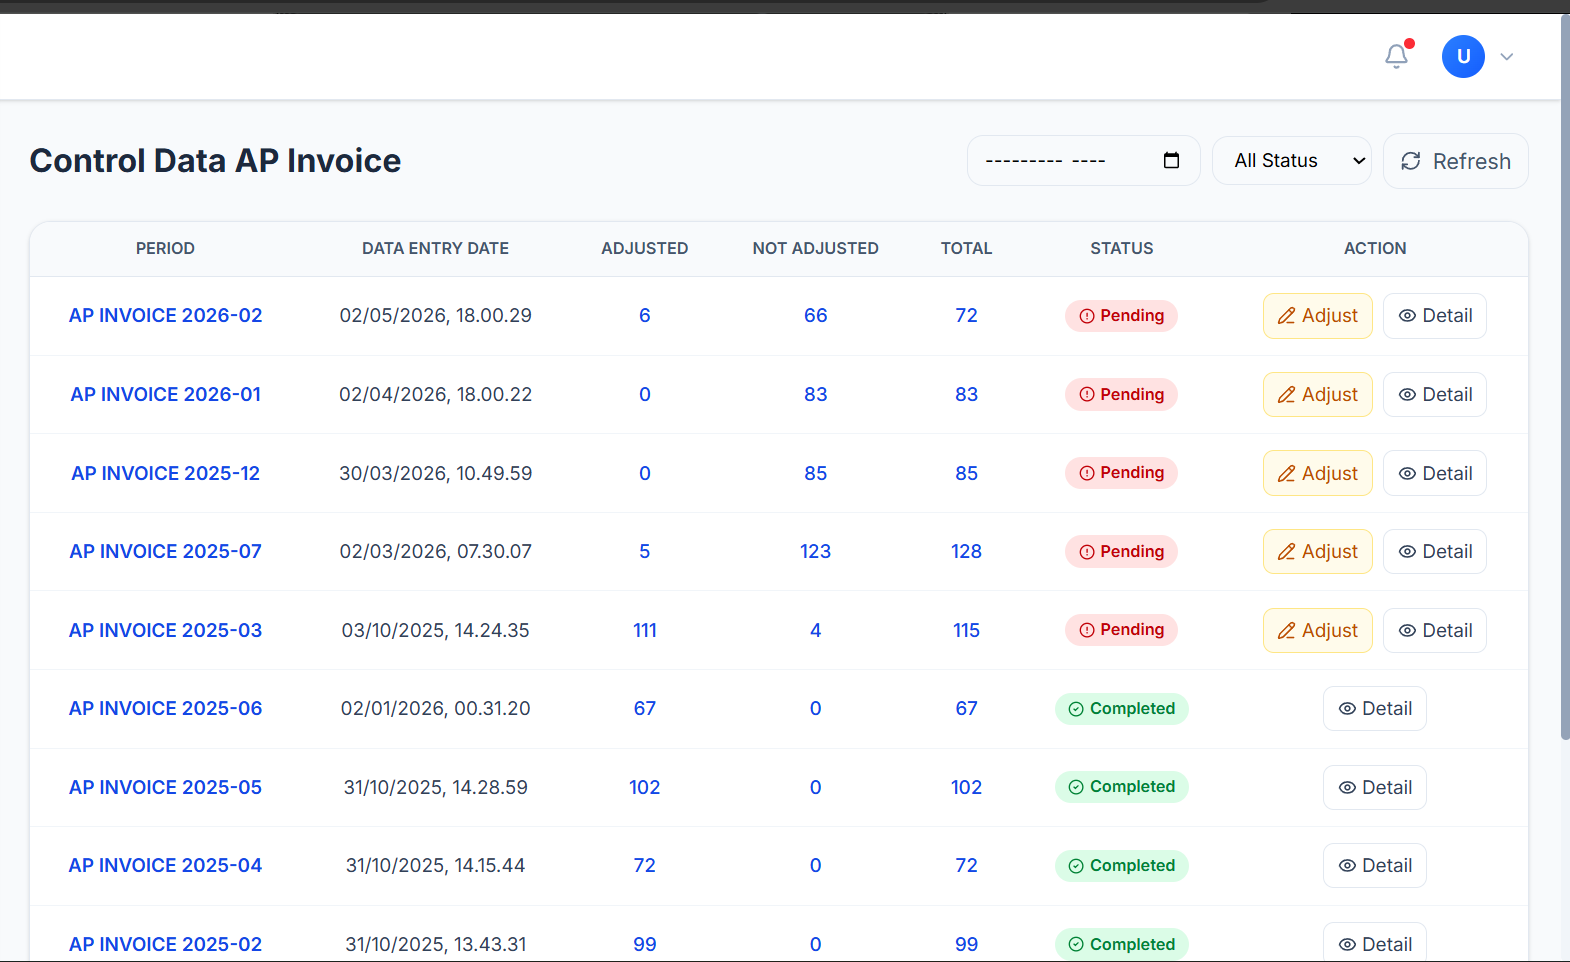
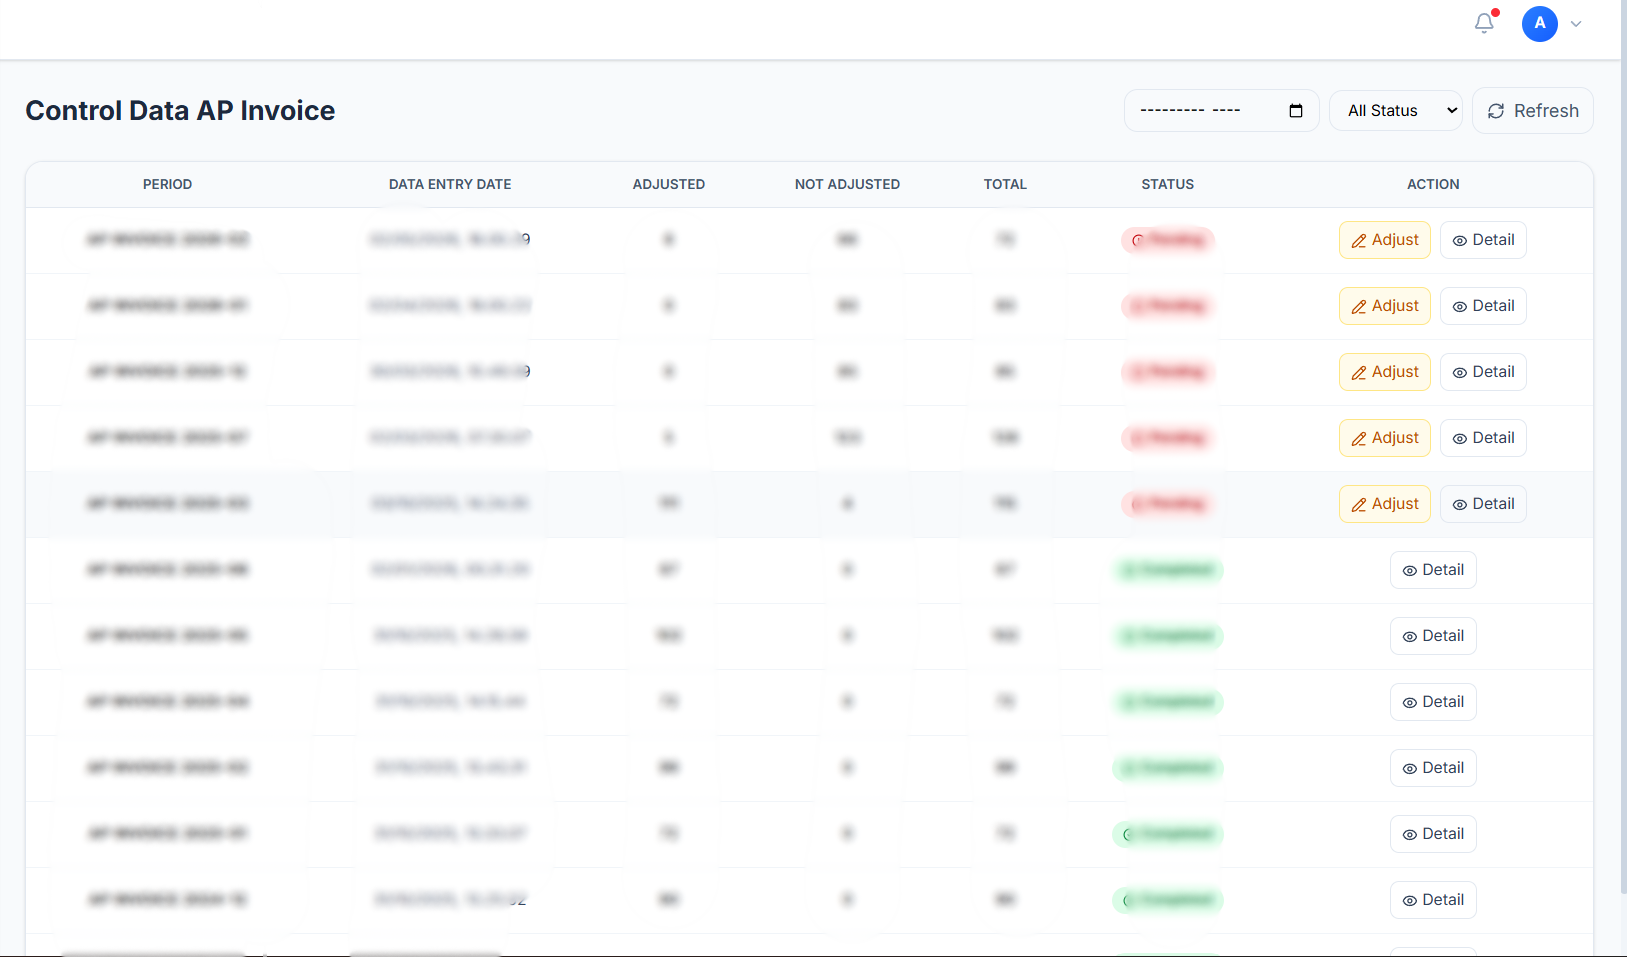
update

diff --git a/src/pages/Index.tsx b/src/pages/Index.tsx
@@ -1,12 +1,77 @@
 import { useEffect, useState } from "react";
-import { X, ChevronLeft, ChevronRight } from "lucide-react";
+import { X, ChevronLeft, ChevronRight, ExternalLink } from "lucide-react";
+
+interface Project {
+  title: string;
+  description: string;
+  tags: string[];
+  technologies: string[];
+  company: string;
+  bgColor: string;
+  image: string;
+  images: string[];
+  role?: string;
+  period?: string;
+  documentation?: string;
+}
 
 const Index = () => {
-  const [selectedProject, setSelectedProject] = useState<null | (typeof projects)[number]>(null);
+  const [selectedProject, setSelectedProject] = useState<null | Project>(null);
   const [currentImageIndex, setCurrentImageIndex] = useState(0);
   const [projectSlideIndex, setProjectSlideIndex] = useState(0);
 
-  const projects = [
+  const projects: Project[] = [
+    {
+      title: "Enterprise Frontend Migration",
+      description:
+        "Migrated a enterprise frontend for client PT Kansai Paint Indonesia 4 main modules, 20 business modules, and 49 workflow submodules, including Request Management (Purchase Request, Reimbursement, Cash Advance, Settlement), Tracking Document (Purchase Request, AR Invoice, Purchase Order, Reimbursement, Outgoing Payments, PR-to-PO), and Approval Report (Purchase Order, AR Invoice, Outgoing Payment Reimbursement, Outgoing Payment Cash Advance, Outgoing Payment AP Invoice), from a HTML, CSS, Vanila Javascript multi-page architecture to a React js Single Page Application (SPA), successfully completing development, testing, and deployment within 5 weeks.",
+      tags: ["React.js", "SPA", "JavaScript"],
+      technologies: [
+        "React.js",
+        "Single Page Application (SPA)",
+        "JavaScript",
+        "HTML5",
+        "CSS3",
+      ],
+      company: "PT. IDS Teknologi Indonesia",
+      bgColor:
+        "bg-gradient-to-br from-indigo-200 to-violet-100 border-2 border-indigo-200",
+      image: "/assets/ids_documentation/dashboard.png",
+      images: [
+        "/assets/ids_documentation/dashboard.png",
+        "/assets/ids_documentation/login.png",
+        "/assets/ids_documentation/pending_task.png",
+        "/assets/ids_documentation/pr_1.png",
+        "/assets/ids_documentation/pr_2.png",
+        "/assets/ids_documentation/pr_3.png",
+        "/assets/ids_documentation/pr_4.png",
+        "/assets/ids_documentation/pr_5.png",
+        "/assets/ids_documentation/pr_6.png",
+        "/assets/ids_documentation/reim_1.png",
+        "/assets/ids_documentation/reim_2.png",
+        "/assets/ids_documentation/reim_3.png",
+        "/assets/ids_documentation/reim_4.png",
+        "/assets/ids_documentation/reim_5.png",
+        "/assets/ids_documentation/ca_1.png",
+        "/assets/ids_documentation/ca_2.png",
+        "/assets/ids_documentation/settlement_1.png",
+        "/assets/ids_documentation/settlement_2.png",
+        "/assets/ids_documentation/po_1.png",
+        "/assets/ids_documentation/po_2.png",
+        "/assets/ids_documentation/po_3.png",
+        "/assets/ids_documentation/po_4.png",
+        "/assets/ids_documentation/ar_1.png",
+        "/assets/ids_documentation/opca_1.png",
+        "/assets/ids_documentation/opca_2.png",
+        "/assets/ids_documentation/opreim_1.png",
+        "/assets/ids_documentation/tr_1.png",
+        "/assets/ids_documentation/tr_2.png",
+        "/assets/ids_documentation/mst_1.png",
+        "/assets/ids_documentation/mst_2.png",
+        "/assets/ids_documentation/mst_3.png",
+        "/assets/ids_documentation/mst_4.png",
+      ],
+    },
     {
       title: "Data Validation System",
       description: "Designed and developed a web-based Data Validation System with two main module: Module validating SLA records that exceed standards by routing them to responsible teams for remarks and Module enabling high-volume raw data uploads into separate staging databases", 
@@ -220,11 +285,30 @@ const Index = () => {
                     <h3 className="text-lg font-semibold text-neutral-900 group-hover:text-blue-600 transition-colors">
                       {project.title} ({project.company})
                     </h3>
+                    {(project.role || project.period) && (
+                      <p className="mt-1 text-xs font-mono text-neutral-500">
+                        {project.role} {project.role && project.period ? "•" : ""} {project.period}
+                      </p>
+                    )}
                     <p className="mt-1.5 text-sm text-neutral-500 leading-relaxed max-w-md">
                       {project.description}
                     </p>
+                    {project.documentation && (
+                      <div className="mt-2.5">
+                        <a
+                          href={project.documentation}
+                          target="_blank"
+                          rel="noreferrer"
+                          onClick={(e) => e.stopPropagation()}
+                          className="inline-flex items-center gap-1.5 text-xs font-semibold text-blue-600 hover:text-blue-700 transition-colors hover:underline"
+                        >
+                          <span>Documentation</span>
+                          <ExternalLink className="w-3 h-3" />
+                        </a>
+                      </div>
+                    )}
                   </div>
-                  <div className="flex items-center gap-2 flex-shrink-0 mt-1">
+                  <div className="flex flex-wrap items-center gap-2 flex-shrink-0 mt-1 max-w-[140px] justify-end">
                     {project.tags.map((tag, i) => (
                       <span
                         key={i}
@@ -297,14 +381,33 @@ const Index = () => {
                 <h3 className="text-xl font-semibold text-neutral-900">
                   {selectedProject.company} ({selectedProject.title})
                 </h3>
-            
+                {(selectedProject.role || selectedProject.period) && (
+                  <p className="text-xs text-neutral-500 font-mono mt-1">
+                    {selectedProject.role}
+                    {selectedProject.role && selectedProject.period ? " • " : ""}
+                    {selectedProject.period}
+                  </p>
+                )}
               </div>
-              <button
-                onClick={closeModal}
-                className="w-9 h-9 rounded-full bg-neutral-100 hover:bg-neutral-200 flex items-center justify-center transition-colors"
-              >
-                <X className="w-4 h-4 text-neutral-600" />
-              </button>
+              <div className="flex items-center gap-3">
+                {selectedProject.documentation && (
+                  <a
+                    href={selectedProject.documentation}
+                    target="_blank"
+                    rel="noreferrer"
+                    className="inline-flex items-center gap-1.5 px-3 py-1.5 text-xs font-semibold text-blue-600 bg-blue-50 hover:bg-blue-100 rounded-lg transition-colors border border-blue-200"
+                  >
+                    <ExternalLink className="w-3.5 h-3.5" />
+                    <span>Documentation</span>
+                  </a>
+                )}
+                <button
+                  onClick={closeModal}
+                  className="w-9 h-9 rounded-full bg-neutral-100 hover:bg-neutral-200 flex items-center justify-center transition-colors"
+                >
+                  <X className="w-4 h-4 text-neutral-600" />
+                </button>
+              </div>
             </div>
 
             {/* Image Gallery */}
@@ -342,15 +445,28 @@ const Index = () => {
               <p className="text-sm text-neutral-500 leading-relaxed mb-4">
                 {selectedProject.description}
               </p>
-              <div className="flex flex-wrap gap-2">
-                {selectedProject.technologies.map((tech, i) => (
-                  <span
-                    key={i}
-                    className="text-[10px] font-mono font-medium text-neutral-500 border border-neutral-200 rounded-full px-2.5 py-0.5"
+              <div className="flex flex-wrap items-center justify-between gap-3">
+                <div className="flex flex-wrap gap-2">
+                  {selectedProject.technologies.map((tech, i) => (
+                    <span
+                      key={i}
+                      className="text-[10px] font-mono font-medium text-neutral-500 border border-neutral-200 rounded-full px-2.5 py-0.5"
+                    >
+                      {tech}
+                    </span>
+                  ))}
+                </div>
+                {selectedProject.documentation && (
+                  <a
+                    href={selectedProject.documentation}
+                    target="_blank"
+                    rel="noreferrer"
+                    className="inline-flex items-center gap-1.5 text-xs font-semibold text-blue-600 hover:text-blue-700 hover:underline"
                   >
-                    {tech}
-                  </span>
-                ))}
+                    <span>View Full Documentation (Google Drive)</span>
+                    <ExternalLink className="w-3.5 h-3.5" />
+                  </a>
+                )}
               </div>
             </div>
 

diff --git a/src/components/portfolio/ProjectsSection.tsx b/src/components/portfolio/ProjectsSection.tsx
@@ -15,6 +15,50 @@ const ProjectsSection = () => {
 
   const projects = [
     {
+      title: "Enterprise Frontend Migration",
+      description:
+        "Migrated a enterprise frontend for client PT Kansai Paint Indonesia 4 main modules, 20 business modules, and 49 workflow submodules, including Request Management (Purchase Request, Reimbursement, Cash Advance, Settlement), Tracking Document (Purchase Request, AR Invoice, Purchase Order, Reimbursement, Outgoing Payments, PR-to-PO), and Approval Report (Purchase Order, AR Invoice, Outgoing Payment Reimbursement, Outgoing Payment Cash Advance, Outgoing Payment AP Invoice), from a HTML, CSS, Vanila Javascript multi-page architecture to a React js Single Page Application (SPA), successfully completing development, testing, and deployment within 5 weeks.",
+      image: "/assets/ids_documentation/dashboard.png",
+      images: [
+        "/assets/ids_documentation/dashboard.png",
+        "/assets/ids_documentation/login.png",
+        "/assets/ids_documentation/pending_task.png",
+        "/assets/ids_documentation/pr_1.png",
+        "/assets/ids_documentation/pr_2.png",
+        "/assets/ids_documentation/pr_3.png",
+        "/assets/ids_documentation/pr_4.png",
+        "/assets/ids_documentation/pr_5.png",
+        "/assets/ids_documentation/pr_6.png",
+        "/assets/ids_documentation/reim_1.png",
+        "/assets/ids_documentation/reim_2.png",
+        "/assets/ids_documentation/reim_3.png",
+        "/assets/ids_documentation/reim_4.png",
+        "/assets/ids_documentation/reim_5.png",
+        "/assets/ids_documentation/ca_1.png",
+        "/assets/ids_documentation/ca_2.png",
+        "/assets/ids_documentation/settlement_1.png",
+        "/assets/ids_documentation/settlement_2.png",
+        "/assets/ids_documentation/po_1.png",
+        "/assets/ids_documentation/po_2.png",
+        "/assets/ids_documentation/po_3.png",
+        "/assets/ids_documentation/po_4.png",
+        "/assets/ids_documentation/ar_1.png",
+        "/assets/ids_documentation/opca_1.png",
+        "/assets/ids_documentation/opca_2.png",
+        "/assets/ids_documentation/opreim_1.png",
+        "/assets/ids_documentation/tr_1.png",
+        "/assets/ids_documentation/tr_2.png",
+        "/assets/ids_documentation/mst_1.png",
+        "/assets/ids_documentation/mst_2.png",
+        "/assets/ids_documentation/mst_3.png",
+        "/assets/ids_documentation/mst_4.png",
+      ],
+      technologies: ["React.js", "Single Page Application (SPA)", "JavaScript", "HTML5", "CSS3"],
+      company: "PT. IDS Teknologi Indonesia",
+      category: "Contract / Project Based",
+      link: "https://drive.google.com/drive/folders/1CgnMck5_CqjKIliRm848xhw4VFsDAPRy?usp=drive_link",
+    },
+    {
       title: "Data Validation System",
       description:
         "This application enables teams from each module to view data that has been loaded into the datamart and identify data that requires correction. Through this system, original source data is separated from user-corrected data, ensuring data integrity and simplifying the audit process.",

diff --git a/src/components/portfolio/ExperienceSection.tsx b/src/components/portfolio/ExperienceSection.tsx
@@ -4,6 +4,17 @@ import { Calendar, MapPin, Building } from "lucide-react";
 const ExperienceSection = () => {
   const experiences = [
     {
+      title: "Software Engineer",
+      company: "PT. IDS Teknologi Indonesia",
+      location: "Jakarta, Indonesia",
+      achievements: [
+        "Migrated enterprise frontend for client PT Kansai Paint Indonesia across 4 main modules, 20 business modules, and 49 workflow submodules from multi-page HTML, CSS, Vanilla JS architecture to a React.js Single Page Application (SPA).",
+        "Developed and integrated Request Management (Purchase Request, Reimbursement, Cash Advance, Settlement), Tracking Document (PR, AR Invoice, PO, Reimbursement, Outgoing Payments, PR-to-PO), and Approval Report modules.",
+        "Successfully completed development, testing, and deployment within 5 weeks.",
+      ],
+      technologies: ["React.js", "JavaScript", "HTML5", "CSS3", "SPA"],
+    },
+    {
       title: "Software Engineer & Data Engineer",
       company: "PT Sinergi Informatika Semen Indonesia",
       location: "Jakarta, Indonesia",
